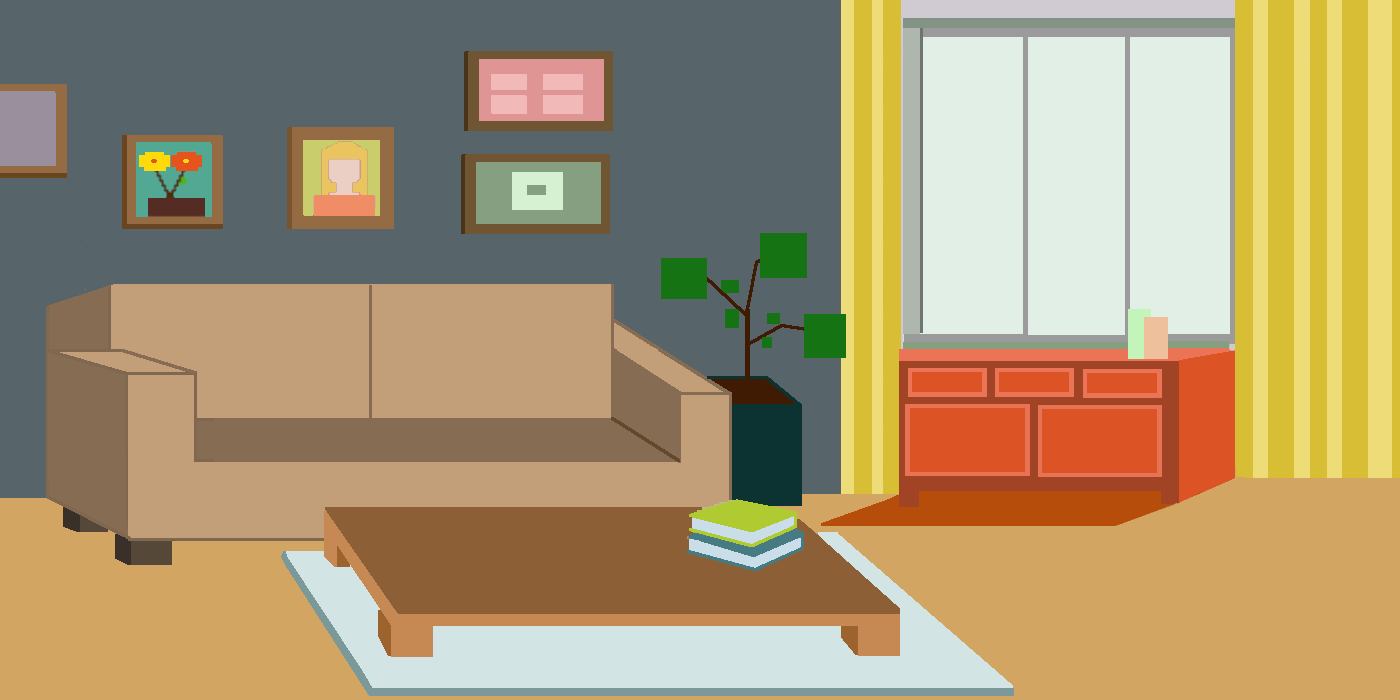
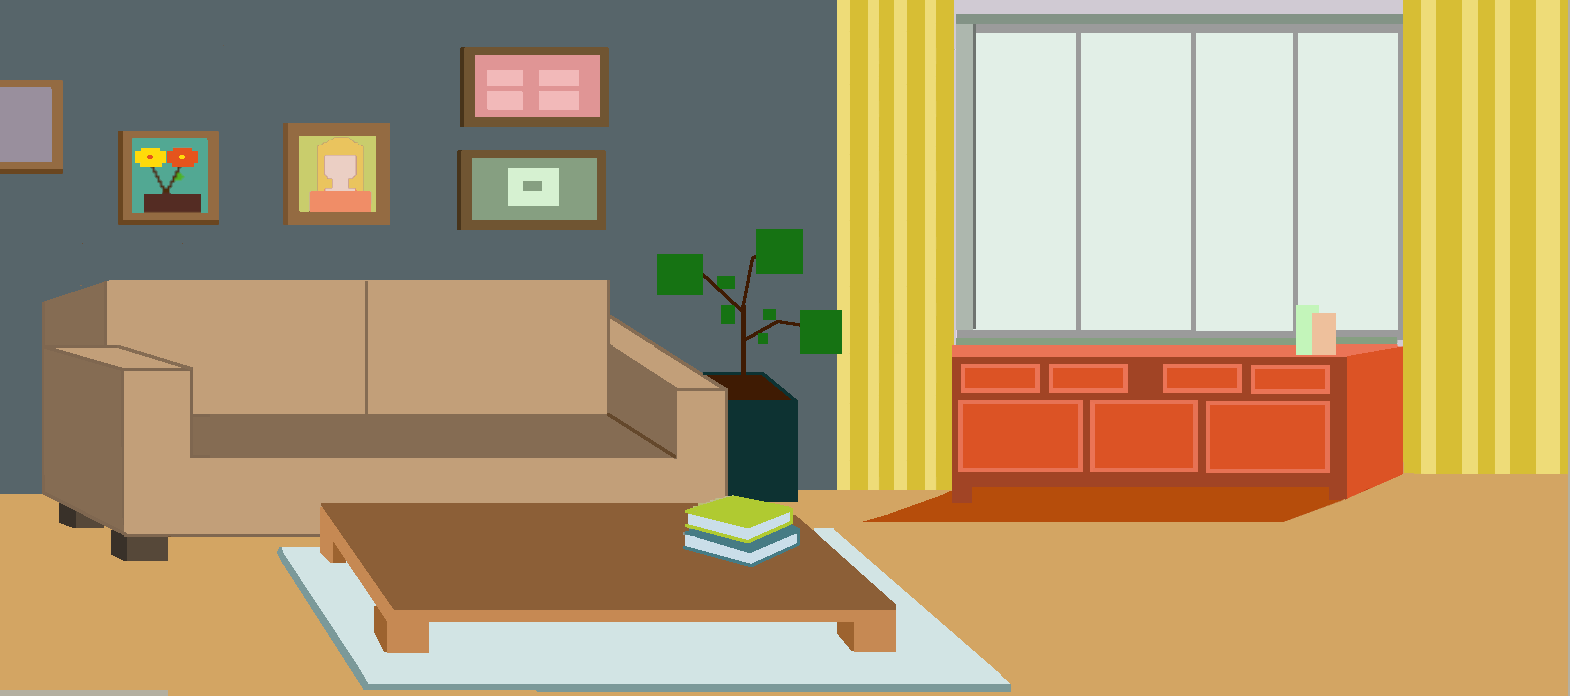
Adiçao dos scripts de login

diff --git a/index.php b/index.php
@@ -1,27 +1,70 @@
 <!DOCTYPE html>
 <html lang="pt-br">
-<head>
-    <meta charset="UTF-8" />
-	<meta name="viewport" content="width=device-width, inicial-scale-to-fit-no">
-    <title>Librascraft</title>
-	<link href="css/bootstrap.min.css" rel="stylesssheet"/>
-	
-	<script src='js/jquery-3.4.1min.js'></script>
-	<script src="js/bootstrap.min.js"></script>
-	
-	<style>
-	body {
-    background: url("img/fundo_principal.jpeg") no-repeat center top fixed;
+    <head>
+        <meta charset="UTF-8" />
+        <meta name="viewport" content="width=device-width, inicial-scale-to-fit-no">
+        <title>Librascraft</title>
+        <link href="css/bootstrap.min.css" rel="stylesssheet"/>
+        
+        <script src='js/jquery-3.4.1min.js'></script>
+        <script src="js/bootstrap.min.js"></script>
+        
+        <style>
+        body 
+    {
+        background: url("img/index.png") no-repeat ;
+        background-size: 100%;
+    }
+    a:link
+    {
+        text-decoration: none;
+    }
+    .placa_esquerda
+    {
+        width:90%; 
+        margin-top:-520px;
+        margin-left:-10px;
+    }
+    .placa_direita
+    {
+        width:90%; 
+        margin-top:-220px;
+        margin-left:150px;
+    }
+    .login
+    {
+        margin-top:-260px;
+        margin-left:10px;
+        font-size:30px;
+    }
+        </style>
+    </head>
+    <body>
+        
+    <div class ="container">   
+        <div class="row">
+            <div class="placa_cabo">
+                <img src="img/icones/placa/barra.png" style="width:43%; margin-top:300px; margin-left:820px;"></a>
+            </div>
+        </div>
+    </div>
+    <div class ="container">   
+        <div class="row">
+            <div class="placa_esquerda">
+                <img src="img/icones/placa/placa_esquerda.png" placeholder="login" style="width:30%; margin-top:0px; margin-left:850px;">
+            </div>
+        </div>        
+    </div>
+    <div class ="container">   
+        <div class="row">
+            <div class="placa_direita">
+                <img src="img/icones/placa/placa_direita.png" style="width:32%; margin-top:0px; margin-left:850px;"></a>
+            </div>
+        </div>        
+    </div>
 
-    -webkit-background-size: cover;
-    -moz-background-size: cover;
-    -o-background-size: cover;
-    background-size: cover;
-}
-	</style>
-</head>
-<body>
-
-
-</body>
+    <div class="login">
+        <a href="login.php" style= "color:black; margin-top:-300px; margin-left:950px;">LOGIN</a>
+    </div>
+    </body>
 </html>

diff --git a/login.php b/login.php
@@ -1,0 +1,46 @@
+<?php
+
+include("menu.php");
+include("conexao.php");
+?>
+
+    <style>
+    body
+    {
+        background:url("img/login_cadastro.png")  no-repeat;
+        background-size: 100%;
+
+    }
+    </style>
+    <body>
+        <form method ="POST" action="validacao.php">
+        <div class="container">
+            <div class="row">
+            <div class="col-sm-9 col-md-7 col-lg-5 mx-auto" style="margin-top:-80px;">
+                <div class="card card-signin my-5" style="border-color:#828282;">
+                <div class="card-body">
+                    <h5 class="card-title text-center"style="color:#828282;">Bem-vindo(a) ao LibrasCraft!</h5>
+                    <form class="form-signin">
+                    <div class="form-label-group" style="color:#828282;">
+                        <input type="email" id="email" class="form-control text-danger" name = "email" placeholder="Email" required autofocus>
+                        <label for="inputEmail">Endereço de email</label>
+                    </div>
+
+                    <div class="form-label-group" style="color:#828282;">
+                        <input type="password" id="senha" class="form-control text-danger" name="senha" placeholder="Senha" required>
+                        <label for="inputPassword">Senha</label>
+                    </div>
+
+                    
+                    <button class="btn btn-lg btn-primary btn-block text-uppercase" style="border-color:#828282;background-color:#828282;" type="submit">Entrar</button>
+                    <hr class="my-4">
+                    <div class= "" style="color:#828282; text-align:center;"<label for="cadastras ">Ainda não é cadastrado? Cadastre-se já!</label></div>
+                    <button class="btn btn-lg btn-google btn-block text-uppercase" style="border-color:#828282;background-color:#828282;color:white;" type="submit" onclick = "location.href='form_cadastro.php'"><i class="fab fa-google mr-2"></i> Cadastrar-se</button>
+                    </form>
+                </div>
+                </div>
+            </div>
+            </div>
+        </div>
+    </body>
+</html>

diff --git a/menu.php b/menu.php
@@ -1,0 +1,50 @@
+
+<?php
+session_start();
+?>
+
+<!DOCTYPE html>
+<html>
+    <head>
+	<meta charset="utf-8">
+        <meta name="viewport" content="width=device-width, initial-scale=1">
+        <title>Librascraft</title>
+        <link rel="stylesheet" href="css/bootstrap.min.css">
+        <script src="js/jquery-3.4.1.min.js"></script>
+        <script src="js/bootstrap.min.js"></script>
+        <style>
+        .menu 
+        {
+            background-color:black;
+            height:60px;
+            width:100%;
+        }
+       
+        </style>
+    </head>
+    <body>
+    <div class="menu"></div>
+
+    <div class="container">
+        <div class="row">
+            <div class="ajuda">
+            <a href="ajuda.php"><img src="img/icones/menu/ajuda.png" style="width:5%; margin-top:-85px; margin-left:1130px;"></a>
+            </div>
+        </div>
+
+         <div class="row">
+            <div class="ajuda">
+            <a href="mapa.php"><img src="img/icones/menu/icone_sair.png" style="width:3%; margin-top:-135px; margin-left:1250px;"></a>
+            </div>
+        </div>
+        <div class="row">
+            <div class="libras">
+            <a href="index.php"><img src="img/icones/librascraft.png" style="width:45%; margin-top:-175px; margin-left:-160px;"></a>
+            </div>
+        </div>
+    </div>
+
+
+
+    </body>
+</html>

diff --git a/banheiro.php b/banheiro.php
@@ -1,13 +1,6 @@
-<!DOCTYPE html>
-<html lang="pt-br">
-<head>
-    <meta charset="UTF-8" />
-	<meta name="viewport" content="width=device-width, inicial-scale-to-fit-no">
-    <title>Librascraft</title>
-	<link href="css/bootstrap.min.css" rel="stylesssheet"/>
-	
-	<script src='js/jquery-3.4.1min.js'></script>
-	<script src="js/bootstrap.min.js"></script>
+<?php
+    include("menu.php");
+?>
 	
 	<style>
 	body {
@@ -21,7 +14,15 @@
 	</style>
 </head>
 <body>
-
+<div class="container">
+  <div class="row justify-content-center">
+  <div class="col-8 border border-warning bg-white h-100 d-inline-block">
+	
+	<h2>"Meu Sofá está velho"</h2>
+	<h1>"SOFA"</h1>
+  </div>
+</div>
+</div>
 
 </body>
 </html>

diff --git a/validacao.php b/validacao.php
@@ -1,0 +1,20 @@
+<?php
+
+	include("conexao.php");
+
+	$usuario = $_POST["email"];
+	$senha = $_POST["senha"];
+	$consulta = "SELECT * FROM usuario WHERE email='$usuario' AND senha='$senha'";
+	
+	$resultado = mysqli_query($conexao,$consulta) or die ("Email ou senha incorretos!");
+	
+	if(mysqli_num_rows($resultado)==1){
+		session_start();
+		$linha = mysqli_fetch_assoc($resultado);
+		$_SESSION["autorizado"]=$linha["id_usuario"];
+		header("location: index.php");
+	}else{
+		die("Email ou senha incorretos!");
+		header("location: login.php?erro=1");
+	}
+?>

diff --git a/form_cadastro_usuario.php b/form_cadastro_usuario.php
@@ -1,0 +1,31 @@
+<?php
+    include("menu.php");
+?>
+
+
+<style>
+       fieldset
+        {
+            width:650px;
+            text-align:center;
+            margin-left:325px;
+           
+        }
+        table
+        {
+            
+            align-items: center;
+            margin-left:50px;
+
+           
+        }
+        .files
+        {
+
+            text-align:center;
+            margin-left:690px;
+            margin-top:-590px;
+           
+        }
+        
+    </style>

diff --git a/mapa.php b/mapa.php
@@ -4,7 +4,7 @@
 
 	<style>
 	body {
-    background: url("img/sala.png") no-repeat center top fixed;
+    background: url("img/mapa.png") no-repeat;
 
     -webkit-background-size: cover;
     -moz-background-size: cover;
@@ -16,10 +16,9 @@
 <body>
 <div class="container">
   <div class="row justify-content-center">
-  <div class="col-8 border border-warning bg-white h-100 d-inline-block">
+  
 	
-	<h2>"Meu Sofá está velho"</h2>
-	<h1>"SOFA"</h1>
+	
   </div>
 </div>
 </div>

diff --git a/conexao.php b/conexao.php
@@ -1,0 +1,13 @@
+<?php
+
+    //local no qual o banco de dados está instalado
+    $local = "localhost:3307";
+    $usuario = "root";
+    $senha = "usbw";
+    $bd = "librascraft";
+
+    $conexao = mysqli_connect($local,$usuario,$senha,$bd) 
+                    or die("ERRO");
+    mysqli_set_charset($conexao,"utf8");
+
+?>
